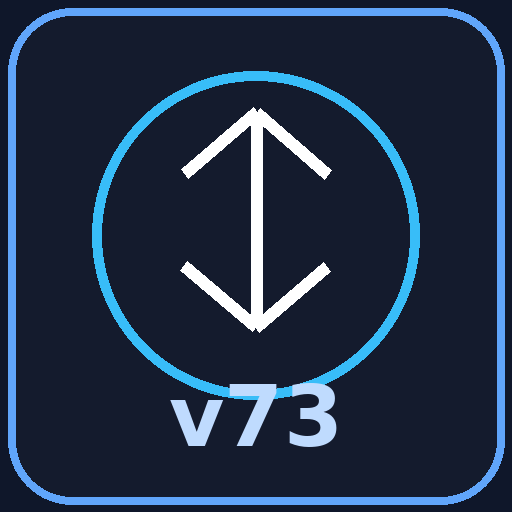
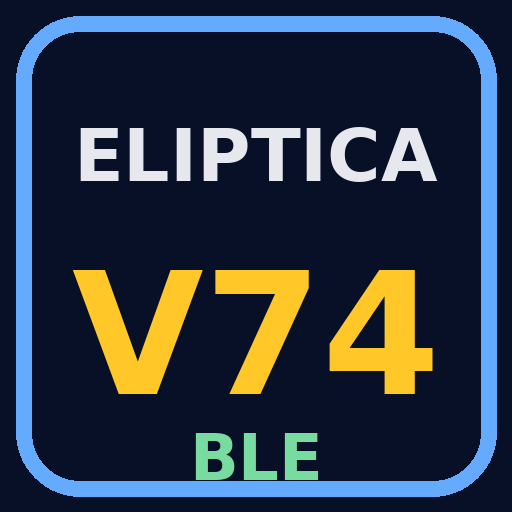
Add files via upload

diff --git a/app.js b/app.js
@@ -1,7 +1,7 @@
 (() => {
 'use strict';
-const APP_VERSION='v73';
-const BUILD='2026-04-20 12:30';
+const APP_VERSION='v74';
+const BUILD='2026-04-20 12:55';
 const $=id=>document.getElementById(id);
 const STATE_KEY='eliptica_state_current'; const VERSIONED_STATE_KEY=`eliptica_state_${APP_VERSION}`; const LAST_SESSION_KEY='lastCompletedSession'; const state={phase:'idle',countdown:{active:false},plan:null,startTs:null,pausedAccumMs:0,pauseTs:null,elapsedSec:0,machineOffsetSec:0,lastSec:-1,realOffset:0,history:[],logs:[],installPrompt:null,bannerIndex:0,bannerHoldMs:5000,bannerLastChange:0,bpmSamples:[],swReg:null,lastActionTs:0,lastRenderTick:0,wakeLock:null,timeCal:{enabled:false,appRefSec:0,realRefSec:0,factorOverall:1,factorAfterMinute:1},voice:{supported:('speechSynthesis' in window),unlocked:false,enabled:true,voices:[],selectedURI:'',queue:[],speaking:false,lastByKey:{},volume:1,rate:1,browserNotify:false,beepEnabled:true},audio:{ctx:null,unlocked:false},alerts:{lastKey:{},lastSecChecked:-1,lastNotifTs:0,finished:false,pulseSide:'ok',pulseSinceTs:0,pulseLastAlertTs:0},ble:{device:null,server:null,hrChar:null,connected:false,lastPacketTs:0,deviceName:'',autoAttempted:false,status:'EMparejar requerido',detail:'',reconnectAttempts:0,reconnectTimer:null,battery:null,lastRR:null}};
 const els={};
@@ -1226,10 +1226,12 @@ function verifyAll(){
 
 async function bleConnect(){
   if(!navigator.bluetooth) throw new Error('Web Bluetooth no disponible');
-  setBleStatus('Emparejando','Selecciona tu pulsómetro BLE. Ponte la banda y humedece los electrodos.');
-  addLog('[BLE] Buscando pulsómetros: servicio heart_rate + namePrefix OnRhythm/Geonaute');
+  setBleStatus('Emparejando','Selecciona tu pulsómetro BLE. Ponte la banda, humedece los electrodos y espera unos segundos.');
+  addLog('[BLE] Búsqueda ampliada: acceptAllDevices + servicios heart_rate/battery/device_information');
   renderAll();
-  const device=await navigator.bluetooth.requestDevice({filters:[{services:['heart_rate']},{namePrefix:'OnRhythm'},{namePrefix:'Geonaute'},{namePrefix:'ONRHYTHM'},{namePrefix:'GEONAUTE'}],optionalServices:['heart_rate','battery_service','device_information']});
+  const options={acceptAllDevices:true,optionalServices:['heart_rate','battery_service','device_information']};
+  const device=await navigator.bluetooth.requestDevice(options);
+  addLog(`[BLE] Seleccionado: ${device?.name||'Sin nombre'}`);
   await connectDevice(device,false);
 }
 async function bleReconnect(){
@@ -1267,7 +1269,7 @@ async function tryAutoBLE(){
       addLog('[BLE] Intento de autoconexión');
       await connectDevice(devices[0],true);
     }else{
-      setBleStatus('Emparejar requerido','No hay pulsómetro recordado por el navegador');
+      setBleStatus('Emparejar requerido','No hay pulsómetro recordado. Usa Conectar pulsómetro y elige tu banda BLE.');
       renderAll();
     }
   }catch(e){ addLog('[BLE] Auto ERROR: '+(e.message||e)); }

diff --git a/eliptica_pwa_reescrita_desde_cero_v74_ble_pairing_fallback.html b/eliptica_pwa_reescrita_desde_cero_v74_ble_pairing_fallback.html
@@ -64,17 +64,6 @@ button{background:#1f2937;border:1px solid #374151;color:#f3f4f6;border-radius:1
       </div>
       <div class="upcoming card" style="padding:0; background:transparent;"><table><thead><tr><th>En</th><th>Hora</th><th>Nivel</th><th>Tramo</th></tr></thead><tbody id="upcomingBody"></tbody></table><div class="small" style="padding:8px 8px 0 8px; font-weight:800;" id="upcomingVisibleLabel">Cambios visibles: 0</div></div>
       <div class="watercard card" style="margin-top:8px;"><div class="between"><div class="title" style="font-size:14px;">💧 Agua</div><div id="waterNextLabel">--</div></div><div class="progress" style="margin-top:6px;"><div class="bar" id="waterProgressBar"></div></div></div>
-      <div class="card" style="margin-top:8px;padding:10px;">
-        <div class="title" style="font-size:14px;">Calibración previa tiempo máquina</div>
-        <div class="small muted" style="margin-top:4px;">Antes de iniciar, pon el tiempo que llevaba la app y el que marcaba la máquina real. El primer minuto irá 1:1.</div>
-        <div style="display:grid;grid-template-columns:1fr 1fr;gap:8px;align-items:end;margin-top:8px;">
-          <label class="small">Tiempo app/plan<input id="calAppRefInput" type="text" placeholder="27:25" style="width:100%;margin-top:4px;background:#0b1220;color:#fff;border:1px solid #334155;border-radius:8px;padding:8px;"></label>
-          <label class="small">Tiempo máquina real<input id="calRealRefInput" type="text" placeholder="28:00" style="width:100%;margin-top:4px;background:#0b1220;color:#fff;border:1px solid #334155;border-radius:8px;padding:8px;"></label>
-          <button id="applyCalBtn" style="background:#17324a;border-color:#2d5d86;">Aplicar calibración</button>
-          <button id="clearCalBtn">Borrar calibración</button>
-        </div>
-        <div class="small" id="calFactorLabel" style="margin-top:8px;color:#cbd5e1;">SIN CALIBRACIÓN PREVIA · REAL Y MÁQUINA A LA PAR</div>
-      </div>
       <div class="controls-bottom"><button class="btn-big btn-green" id="startBtn">▶ Empezar</button><button class="btn-big btn-red" id="resetBtn">↺ Reset</button></div>
     </div>
     <div class="vertcol"><button class="vbtn" id="seekPlus60">+1m</button><button class="vbtn" id="seekPlus10">+10s</button><button class="vbtn" id="seekPlus5">+5s</button><button class="vbtn" id="seekPlus1">+1s</button><button class="vbtn" id="seekMinus1">-1s</button><button class="vbtn" id="seekMinus5">-5s</button><button class="vbtn" id="seekMinus10">-10s</button><button class="vbtn" id="seekMinus60">-1m</button></div>

diff --git a/sw.js b/sw.js
@@ -1,5 +1,5 @@
-const CACHE='eliptica-v73-cache';
-const CORE=['./','./index.html?v=v73','./app.js?v=v73','./manifest.webmanifest?v=v73','./icon-192.png?v=v73','./icon-512.png?v=v73'];
+const CACHE='eliptica-v74-cache';
+const CORE=['./','./index.html?v=v74','./app.js?v=v74','./manifest.webmanifest?v=v74','./icon-192.png?v=v74','./icon-512.png?v=v74'];
 self.addEventListener('install',e=>{
   self.skipWaiting();
   e.waitUntil(caches.open(CACHE).then(c=>c.addAll(CORE)));
@@ -21,10 +21,10 @@ self.addEventListener('fetch',e=>{
       try{
         const fresh=await fetch(e.request,{cache:'no-store'});
         const cache=await caches.open(CACHE);
-        cache.put('./index.html?v=v73', fresh.clone());
+        cache.put('./index.html?v=v74', fresh.clone());
         return fresh;
       }catch(err){
-        return (await caches.match('./index.html?v=v73')) || (await caches.match('./index.html')) || Response.error();
+        return (await caches.match('./index.html?v=v74')) || (await caches.match('./index.html')) || Response.error();
       }
     })());
     return;
